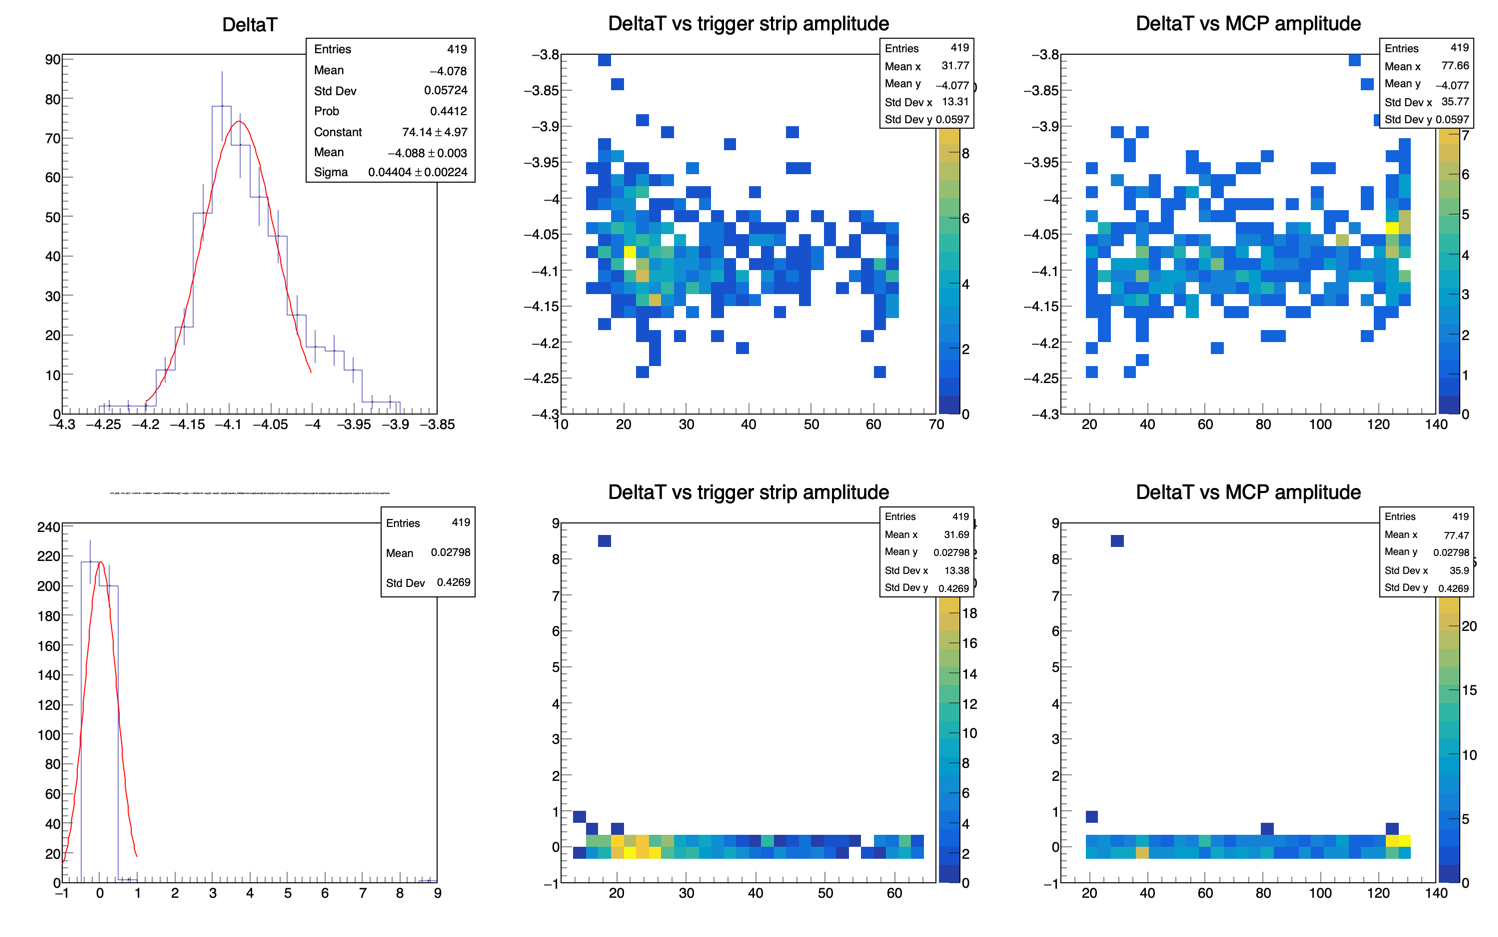
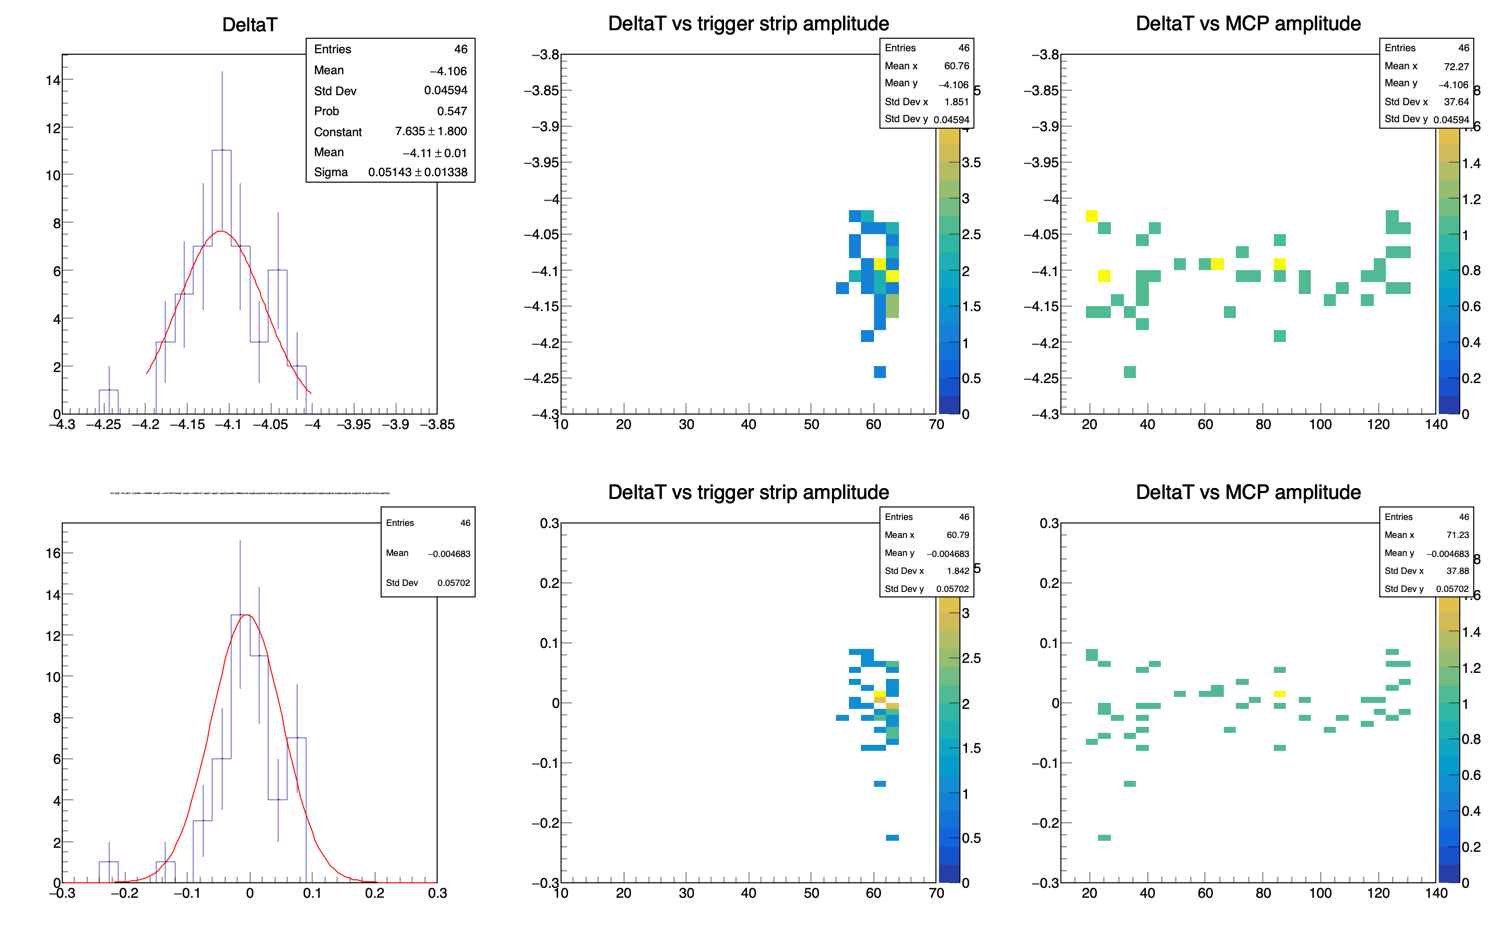
Fixed the bug with the timewalk correction.

diff --git a/analysis/GetAmplitudes.C b/analysis/GetAmplitudes.C
@@ -42,7 +42,7 @@ void GetAmplitudes() {
     // TFile * file = TFile::Open("/home/aram/3D_sensors/proc_F_AC100W80_strip3mm_bv116_mcp4400_trigCh4_Ch8_collimatedTwice_3days.root");
     TFile * file = TFile::Open("/Users/PITLab/3D_sensors/proc_F_AC100W80_strip3mm_bv116_mcp4400_trigCh4_Ch8_collimatedTwice_3days.root");
     TTree * pulse = (TTree*) file -> Get("pulse");
-    TString conditions = "baseline_RMS[3]<3 && amp[3]>amp[0] && amp[3]>amp[1] && amp[3]>amp[2] && amp[3]>amp[4] && amp[3]>amp[5] && amp[3]>amp[6] && amp[3]>0 && amp[7]<130 && amp[7]>20"; 
+    TString conditions = "baseline_RMS[3]<3 && amp[3]>amp[0] && amp[3]>amp[1] && amp[3]>amp[2] && amp[3]>amp[4] && amp[3]>amp[5] && amp[3]>amp[6] && amp[3]>55 && amp[7]<130 && amp[7]>20"; 
     // && LP2_50[2]<-1.0 && LP2_50[4]<-1.0 && LP2_50[5]<-1.0 && LP2_50[1]<-1.0";
     int trigger = 3, mcp = 7;
     gStyle->SetOptStat(1110);
@@ -156,12 +156,12 @@ void GetAmplitudes() {
         // ---------------------------- Timewalk corrected --------------------------------
         deltaT->cd(4);
         gStyle->SetOptFit(1011);
-	string corrected_dt_command = "LP2_" + to_string(fit_amps[i]) + "[3] - LP2_"+ to_string(fit_amps[i]) + "[7] - "+Form("(%g + %g * amp[3] + %g*amp[3] * amp[3] + %g * amp[3] * amp[3] * amp[3])", p0, p1, p2, p3)+">>DT_" + to_string(fit_amps[i]) + "_hist_corr";
+	string corrected_dt_command = "LP2_" + to_string(fit_amps[i]) + "[3] - LP2_"+ to_string(fit_amps[i]) + "[7] - "+Form("(%g + %g * amp[3] + %g*amp[3] * amp[3] + %g * amp[3] * amp[3] * amp[3])", p0, p1, p2, p3)+">>DT_" + to_string(fit_amps[i]) + "_hist_corr(20,-0.3,0.3)";
         std::cout<<"--------------------------------------------++++++++++>>>> "<<corrected_dt_command<<std::endl;
         pulse->Draw((corrected_dt_command).c_str(), conditions, "HIST E");
         TH1D * DT_corr = (TH1D*)gDirectory->Get(("DT_" + to_string(fit_amps[i]) + "_hist_corr").c_str());
         // DT_corr->Rebin(4);
-        TF1 * fgaus_corr = new TF1("fgaus_corr","gaus",-1.0,1.0);
+        TF1 * fgaus_corr = new TF1("fgaus_corr","gaus",-0.3,0.3);
         std::cout<<DT_corr->GetMaximum()<<std::endl;
         fgaus_corr->SetParameters(DT_corr->GetMaximum(), DT_corr->GetMean(), DT_corr->GetRMS());
         DT->Fit(fgaus_corr, "R");
@@ -179,7 +179,7 @@ void GetAmplitudes() {
             chi_sq.push_back(0.0);
         
         deltaT->cd(5);
-        string corrected_dt_vs_amp_command = "LP2_" + to_string(fit_amps[i]) + "[3] - LP2_"+ to_string(fit_amps[i]) + "[7] - "+Form("(%g + %g * amp[3] + %g * amp[3] * amp[3] + %g * amp[3] * amp[3] * amp[3])", p0, p1, p2, p3)+":amp[3]>>DT_amp3_" + to_string(fit_amps[i]) + "_hist_corr";
+        string corrected_dt_vs_amp_command = "LP2_" + to_string(fit_amps[i]) + "[3] - LP2_"+ to_string(fit_amps[i]) + "[7] - "+Form("(%g + %g * amp[3] + %g * amp[3] * amp[3] + %g * amp[3] * amp[3] * amp[3])", p0, p1, p2, p3)+":amp[3]>>DT_amp3_" + to_string(fit_amps[i]) + "_hist_corr(30,10,70,60,-0.3,0.3)";
         std::cout<<"--------------------------------------------++++++++++>>>> "<<corrected_dt_vs_amp_command<<std::endl;
         pulse->Draw((corrected_dt_vs_amp_command).c_str(), conditions, "colz");
         TH2D*DT_amp3_corr = (TH2D*)gDirectory->Get(("DT_amp3_" + to_string(fit_amps[i]) + "_hist_corr").c_str());
@@ -187,7 +187,7 @@ void GetAmplitudes() {
         DT_amp3_corr->SetTitle("DeltaT vs trigger strip amplitude"); // strigger
         
         deltaT->cd(6);
-        string corrected_dt_vs_MCP_amp_command = "LP2_" + to_string(fit_amps[i]) + "[3]-LP2_"+ to_string(fit_amps[i]) + "[7] - "+ Form("(%g + %g * amp[3] + %g * amp[3] * amp[3] + %g * amp[3] * amp[3] * amp[3])", p0, p1, p2, p3) + ":amp[7]>>DT_amp7_" + to_string(fit_amps[i]) + "_hist_corr";
+        string corrected_dt_vs_MCP_amp_command = "LP2_" + to_string(fit_amps[i]) + "[3]-LP2_"+ to_string(fit_amps[i]) + "[7] - "+ Form("(%g + %g * amp[3] + %g * amp[3] * amp[3] + %g * amp[3] * amp[3] * amp[3])", p0, p1, p2, p3) + ":amp[7]>>DT_amp7_" + to_string(fit_amps[i]) + "_hist_corr(30,10,140,60,-0.3,0.3)";
         std::cout<<corrected_dt_vs_MCP_amp_command<<std::endl;
         pulse->Draw((corrected_dt_vs_MCP_amp_command).c_str(), conditions, "colz");
         TH2D * DT_amp7_corr = (TH2D*)gDirectory->Get(("DT_amp7_" + to_string(fit_amps[i]) + "_hist_corr").c_str());
